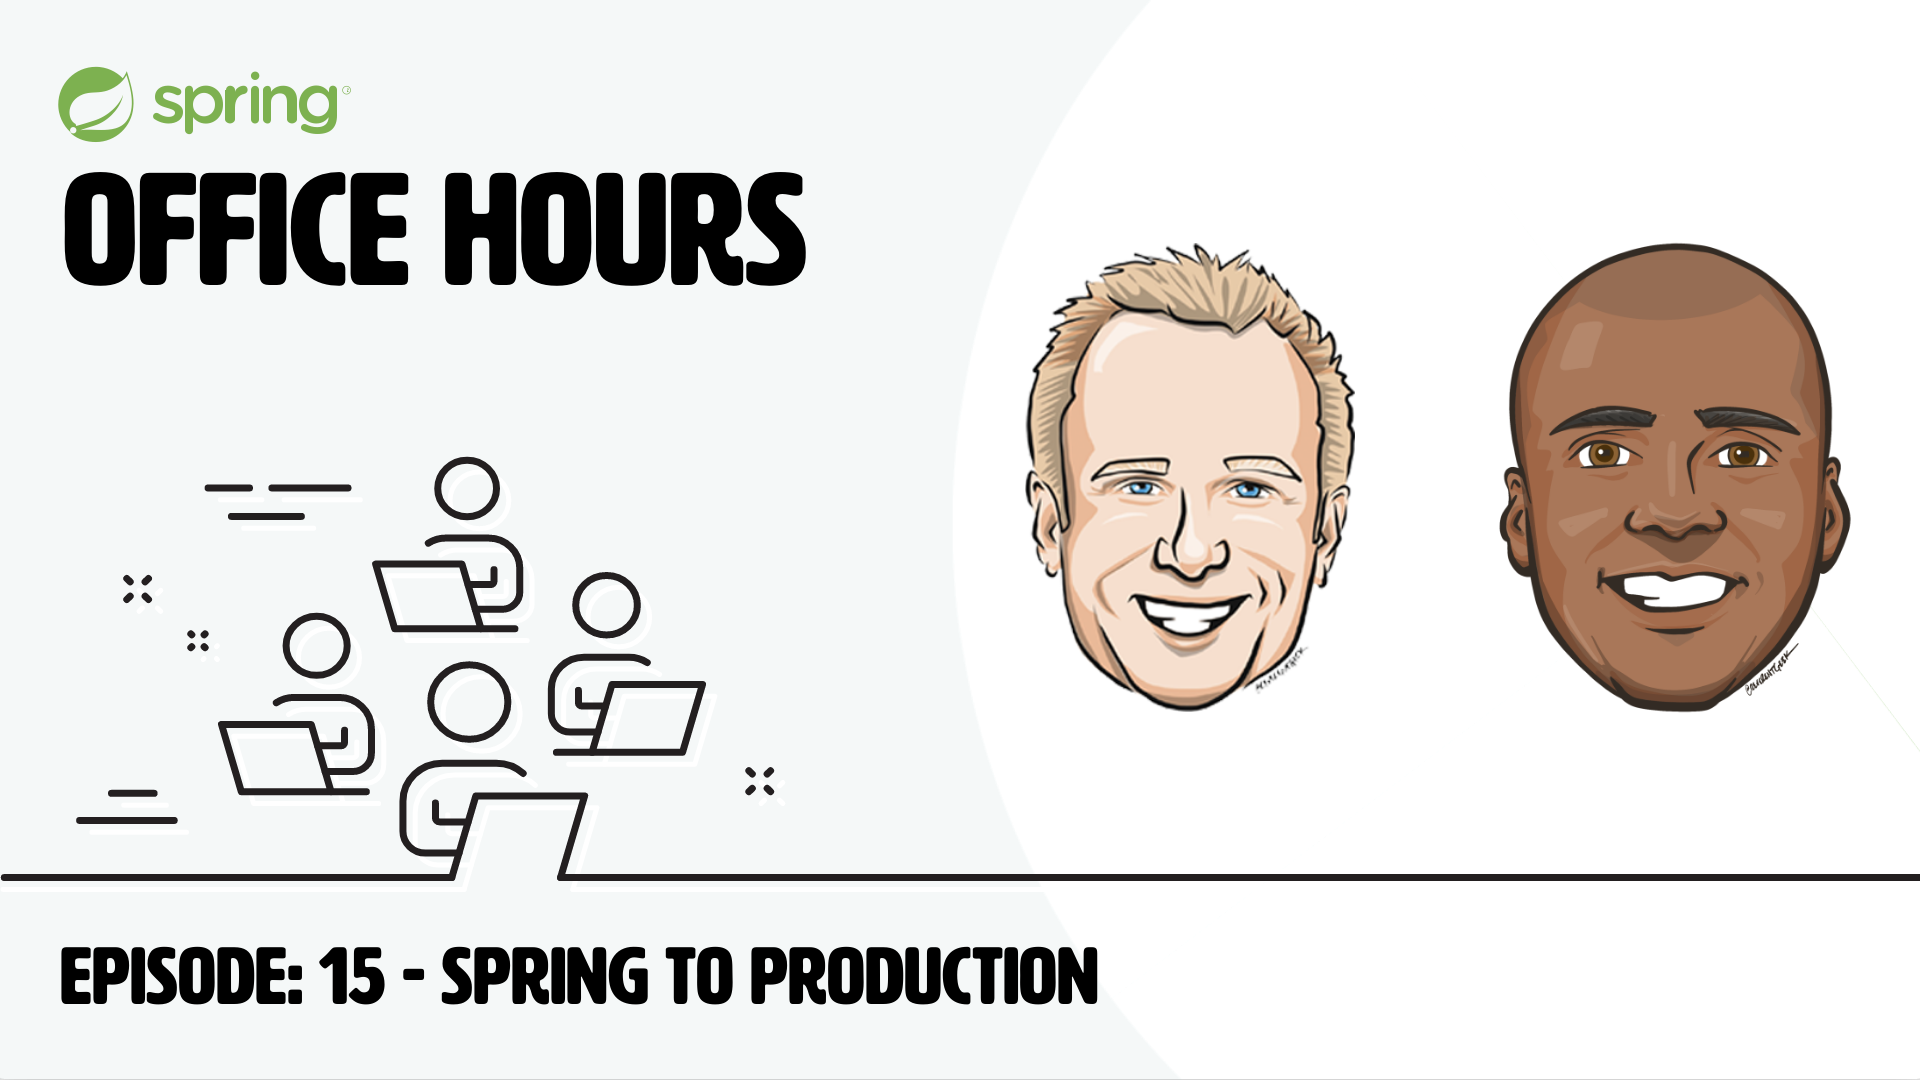
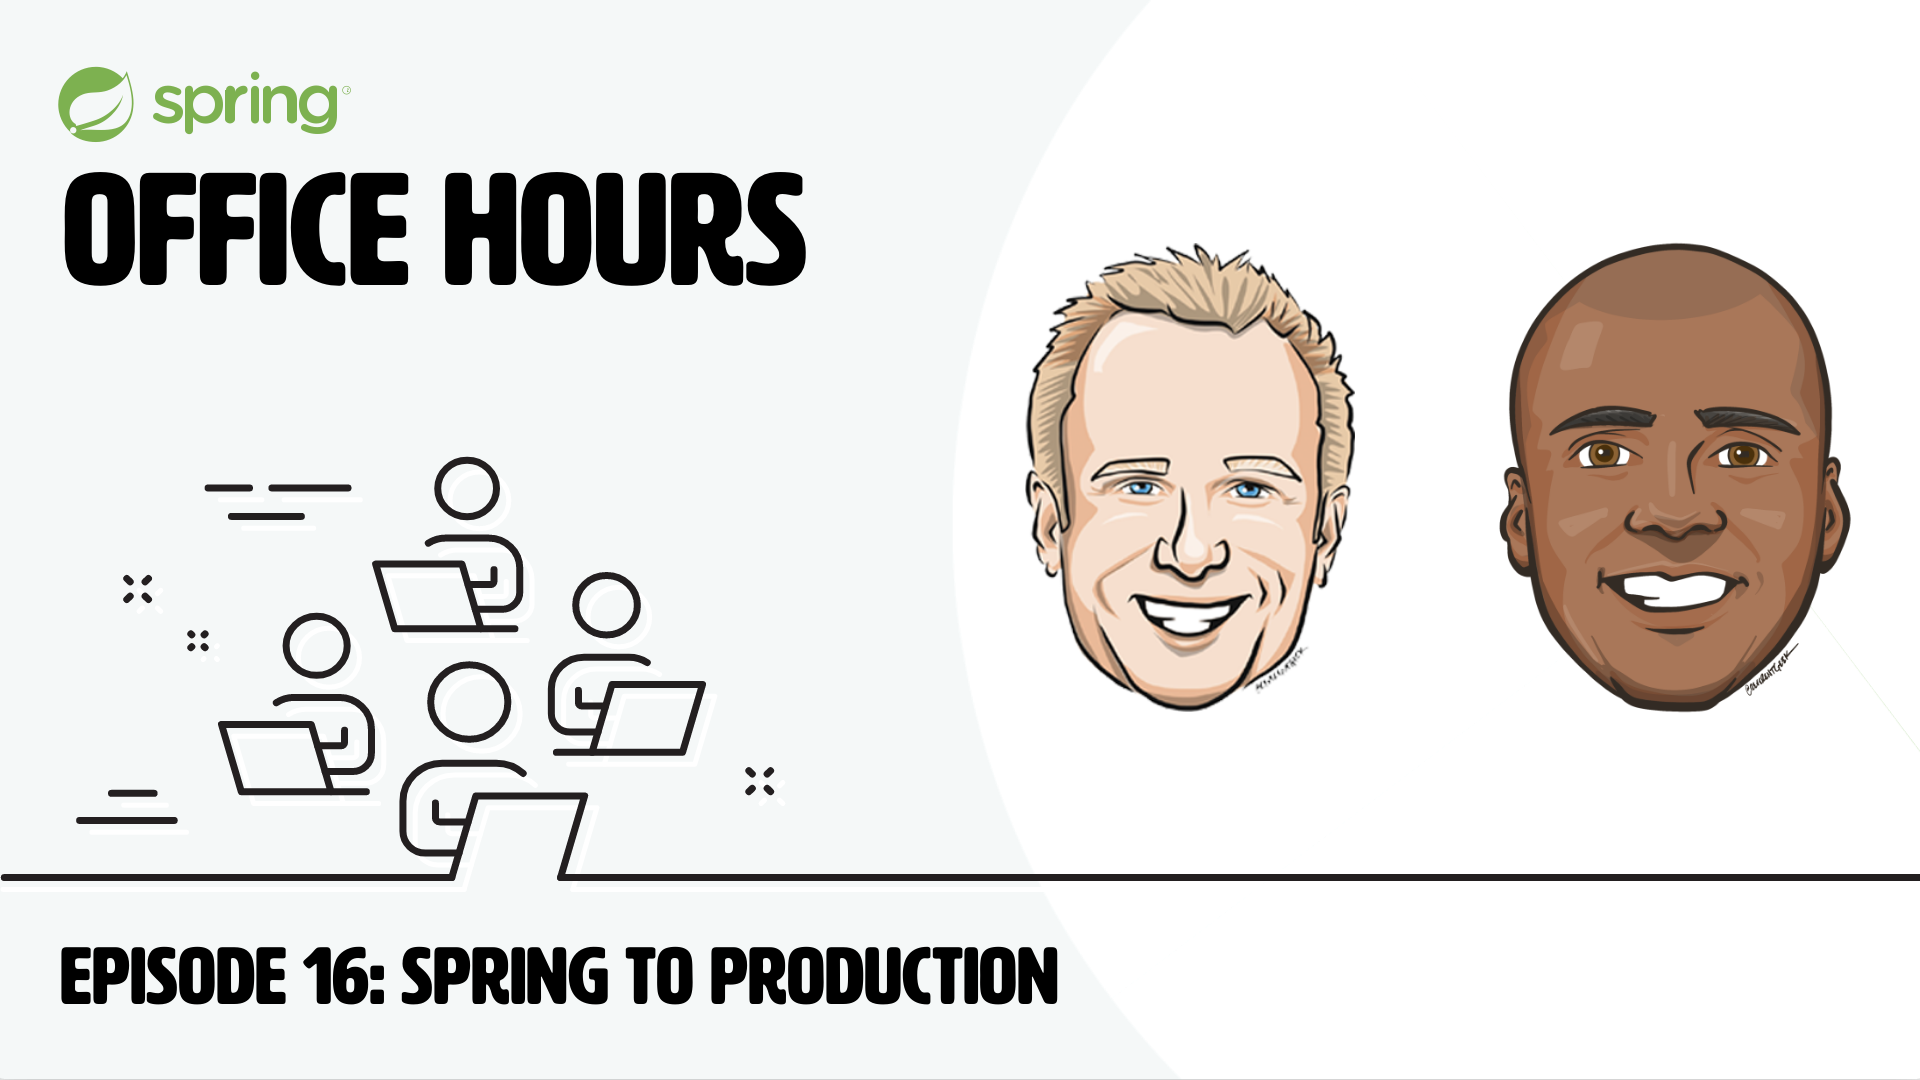
Fix episode 16 and add episodes 17,18 (#2373)
* Upcoming episode and fix 16 graphic

* change title for spell check

Changed region(s): [[0.1562, 0.8556, 0.5938, 0.9472]]

diff --git a/content/tv/spring-office-hours/0017/index.md b/content/tv/spring-office-hours/0017/index.md
@@ -1,0 +1,23 @@
+---
+# TODO Episode Live Time UTC 2:30PM Central
+Date: "2022-10-25T12:30:00-07:00"
+lastmod: "2022-10-25"
+PublishDate: "2022-10-25"
+type: "tv-episode"
+# TODO
+title: "Spring Boot 3 Release Candidate 1"
+# TODO
+episode: "0017"
+explicit: 'no'
+hosts:
+- DaShaun Carter
+- Dan Vega
+# guests:
+# -
+minutes: 60
+# TODO YouTube ID after posted
+youtube: ""
+twitch:  "vmwaretanzu"
+---
+
+Join Dan Vega and DaShaun Carter as they explore what’s new in the world of Spring. This is your chance to stay connected to what’s happening with the Spring Framework, related projects, and the community. During this live show, Dan and DaShaun will review the current news, demo a Spring related project they find interesting and answer any questions you might have.

diff --git a/content/tv/spring-office-hours/0018/index.md b/content/tv/spring-office-hours/0018/index.md
@@ -1,0 +1,23 @@
+---
+# TODO Episode Live Time UTC 2:30PM Central
+Date: "2022-11-01T12:30:00-07:00"
+lastmod: "2022-10-25"
+PublishDate: "2022-10-25"
+type: "tv-episode"
+# TODO
+title: "Testing With Ted"
+# TODO
+episode: "0018"
+explicit: 'no'
+hosts:
+- DaShaun Carter
+- Dan Vega
+guests:
+- Ted Young
+minutes: 60
+# TODO YouTube ID after posted
+youtube: ""
+twitch:  "vmwaretanzu"
+---
+
+Join Dan Vega and DaShaun Carter as they explore what’s new in the world of Spring. This is your chance to stay connected to what’s happening with the Spring Framework, related projects, and the community. During this live show, Dan and DaShaun will review the current news, demo a Spring related project they find interesting and answer any questions you might have.
